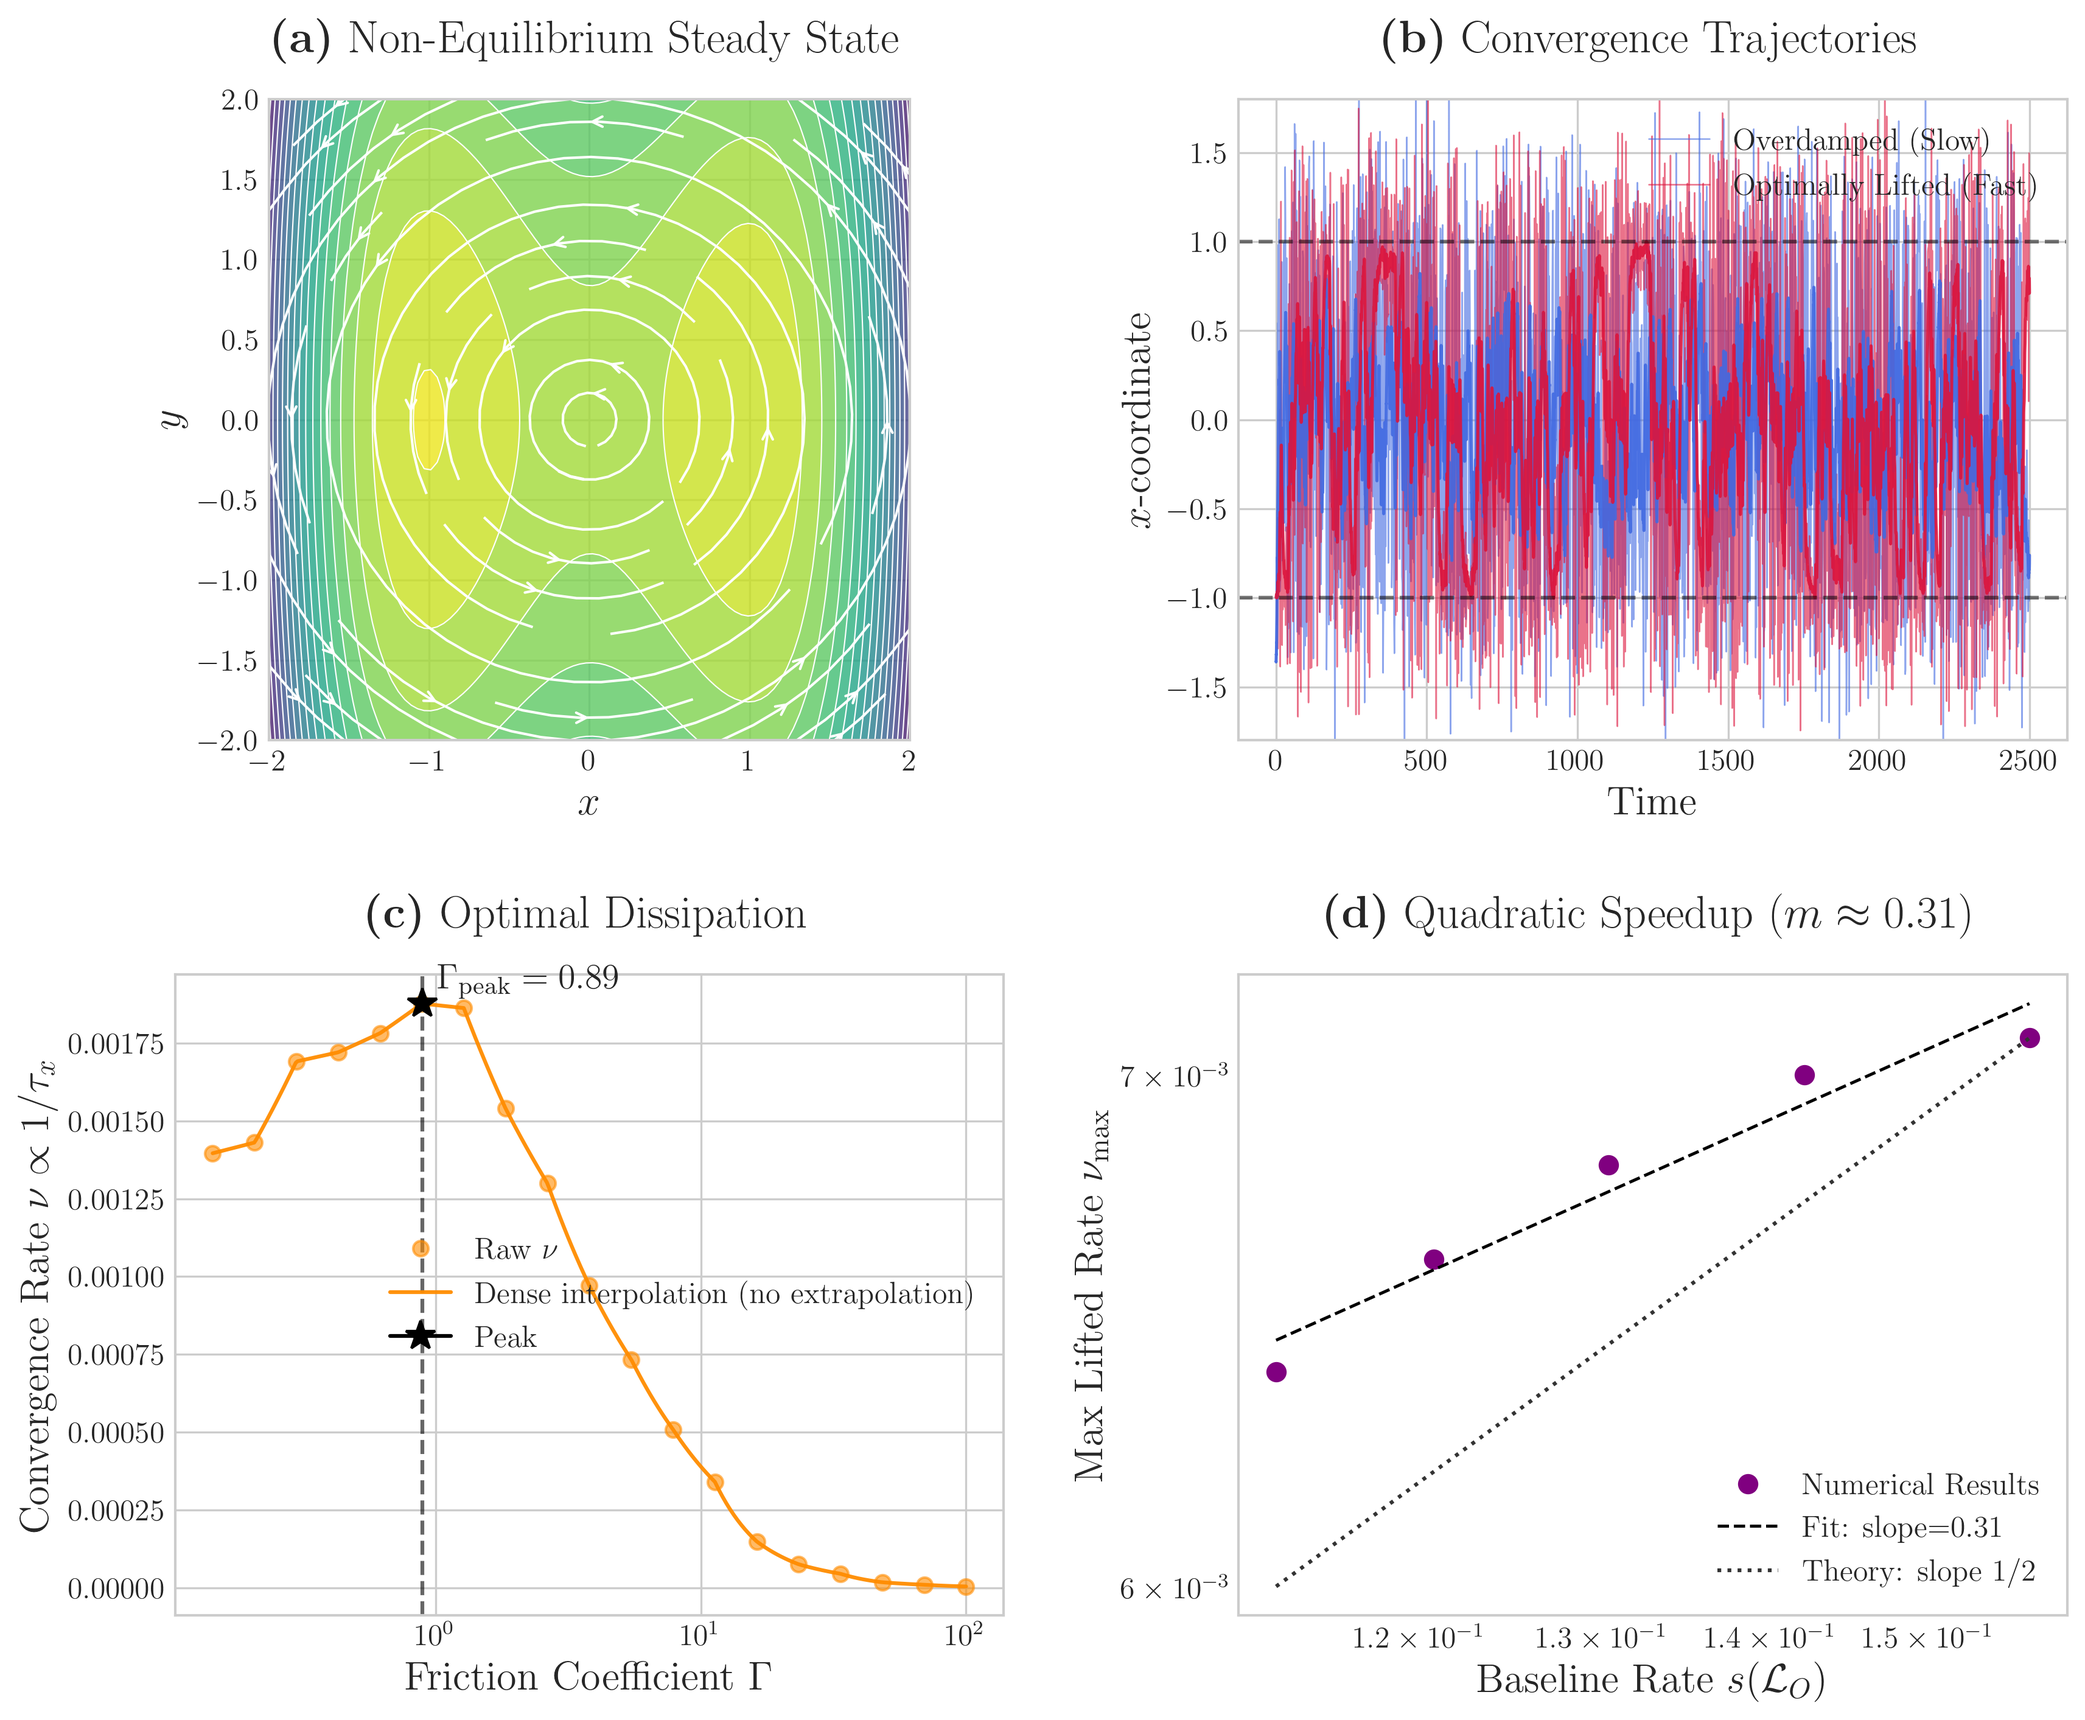
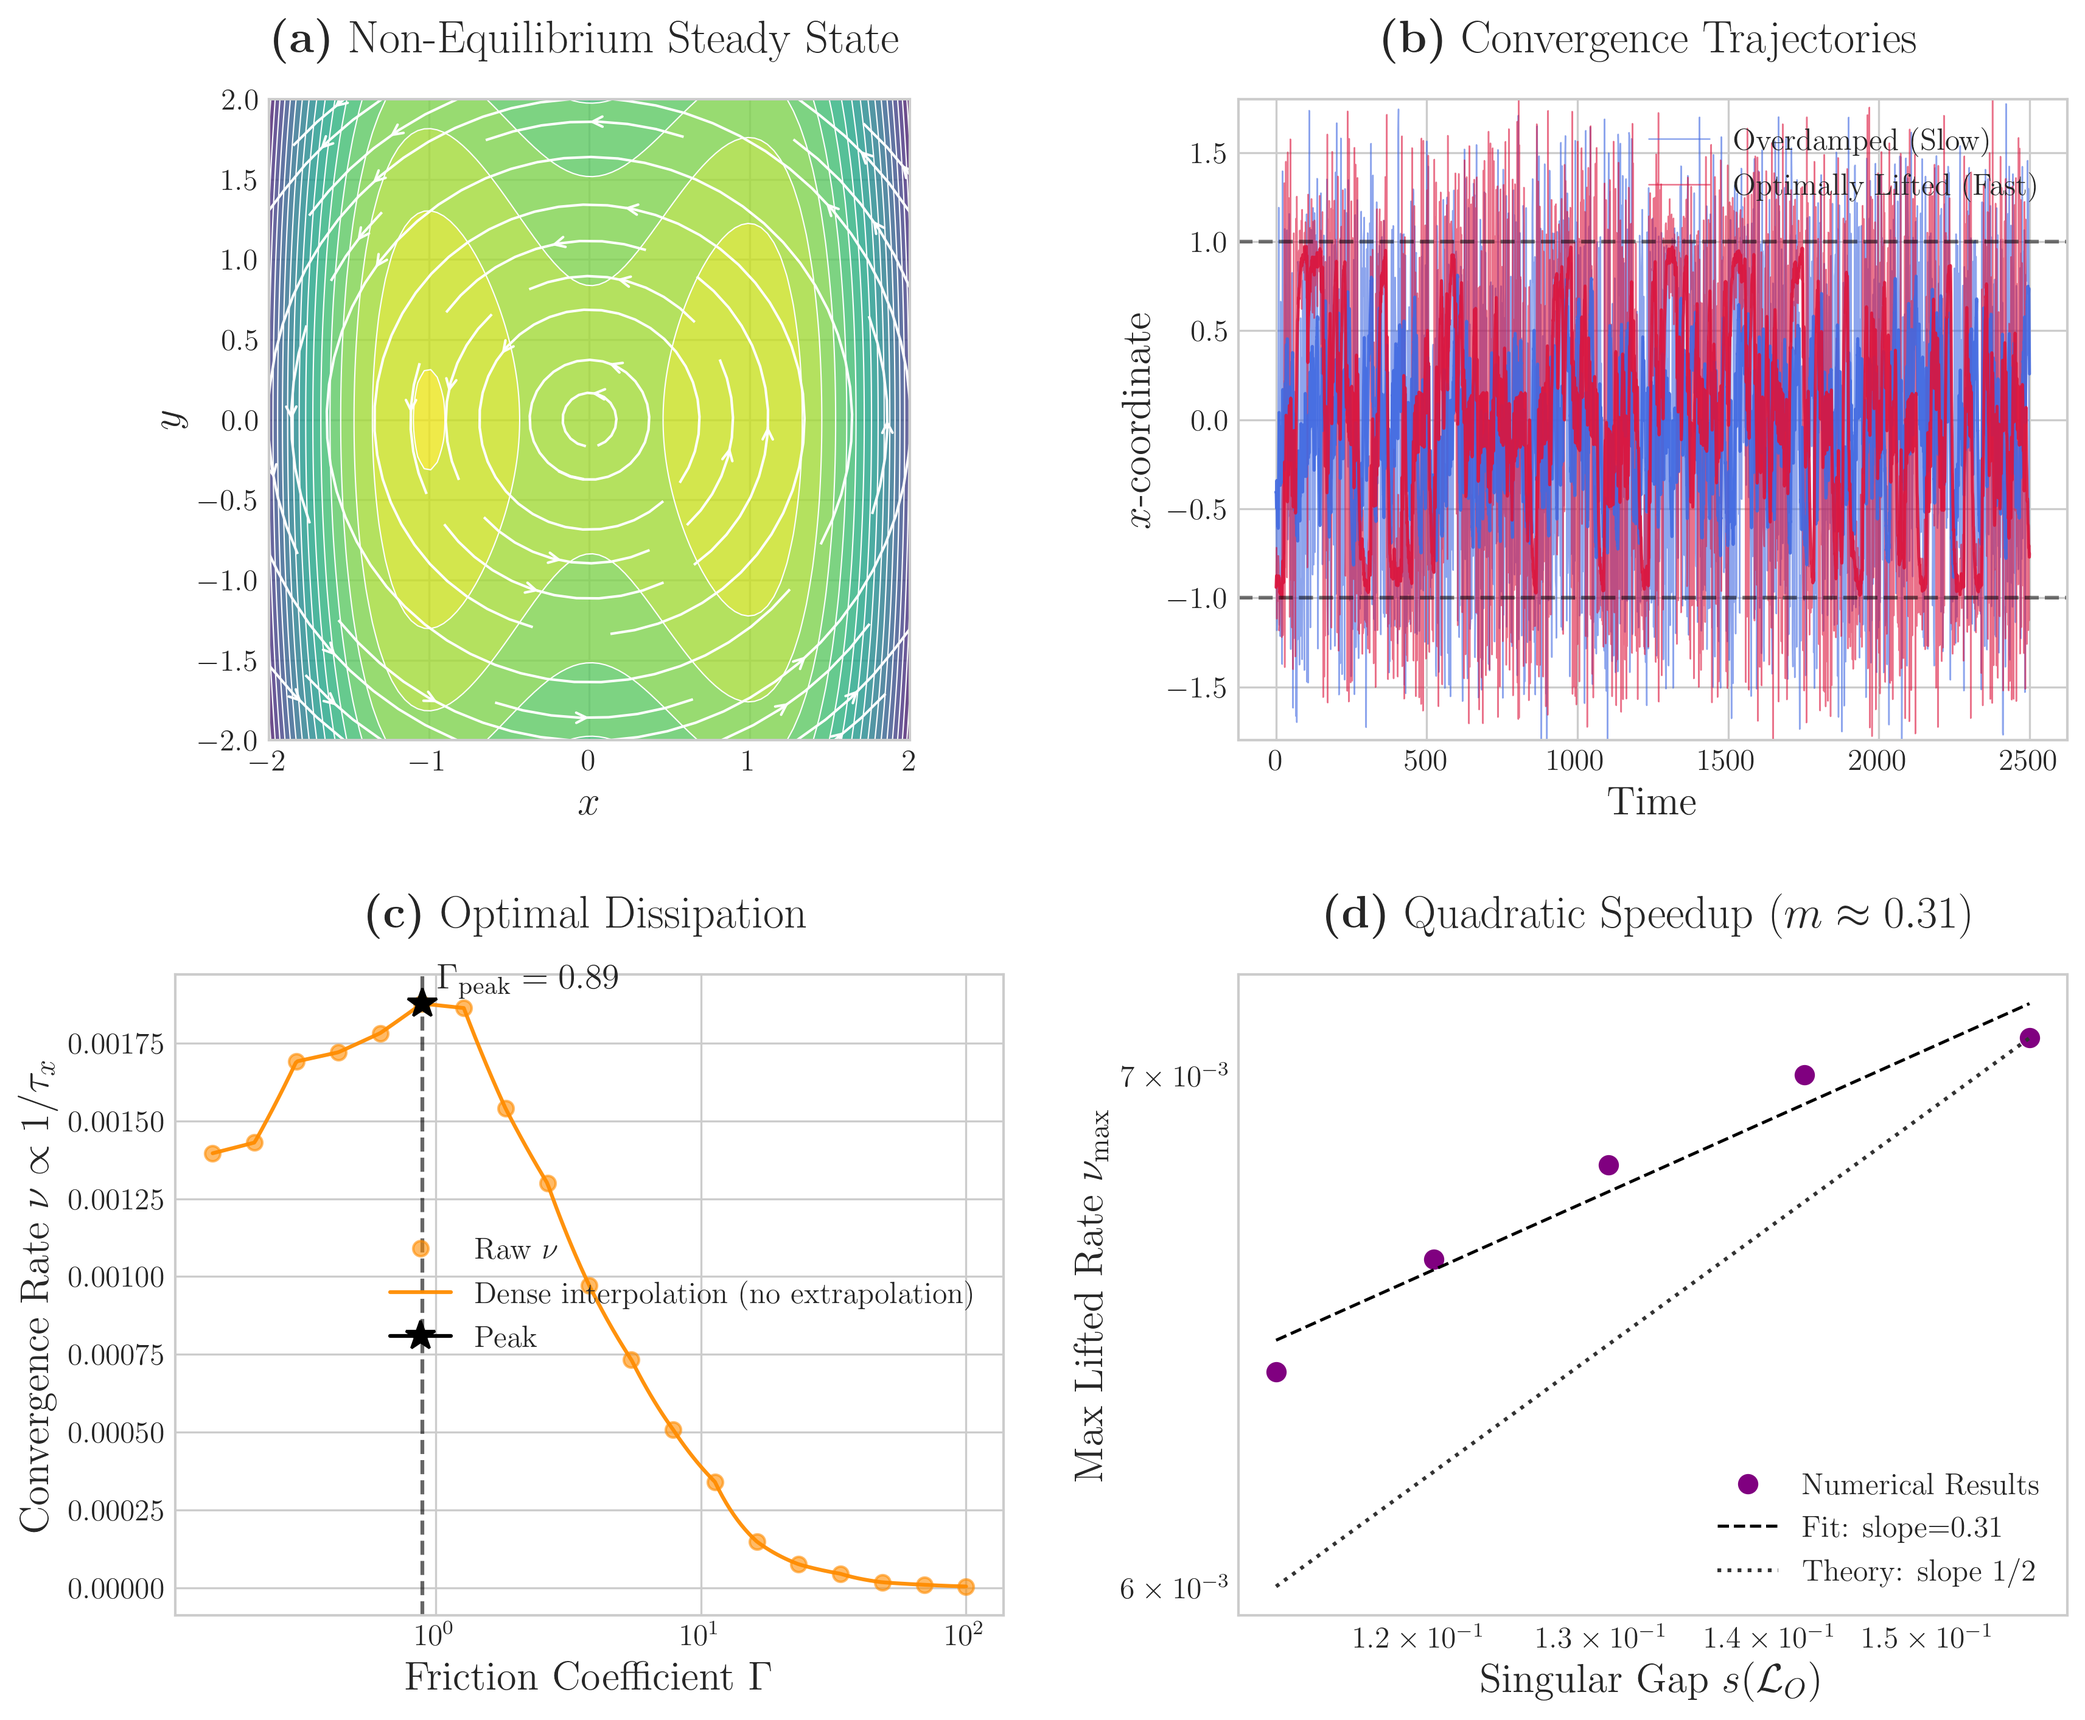
update diffusion figure

Changed region(s): [[0.5934, 0.0623, 0.9994, 0.436], [0.7183, 0.9653, 0.8745, 0.9965]]

diff --git a/diffusion/simulation.py b/diffusion/simulation.py
@@ -683,7 +683,7 @@ def create_publication_figure(results):
         ax_d.text(0.5, 0.5, 'Insufficient positive data for panel (d)', ha='center', va='center')
         ax_d.set_title(r'\textbf{(d)} Quadratic Speedup', y=1.05)
 
-    ax_d.set_xlabel(r'Baseline Rate $s(\mathcal{L}_O)$')
+    ax_d.set_xlabel(r'Singular Gap $s(\mathcal{L}_O)$')
     ax_d.set_ylabel(r'Max Lifted Rate $\nu_{\max}$')
     ax_d.legend(loc='lower right')
 
